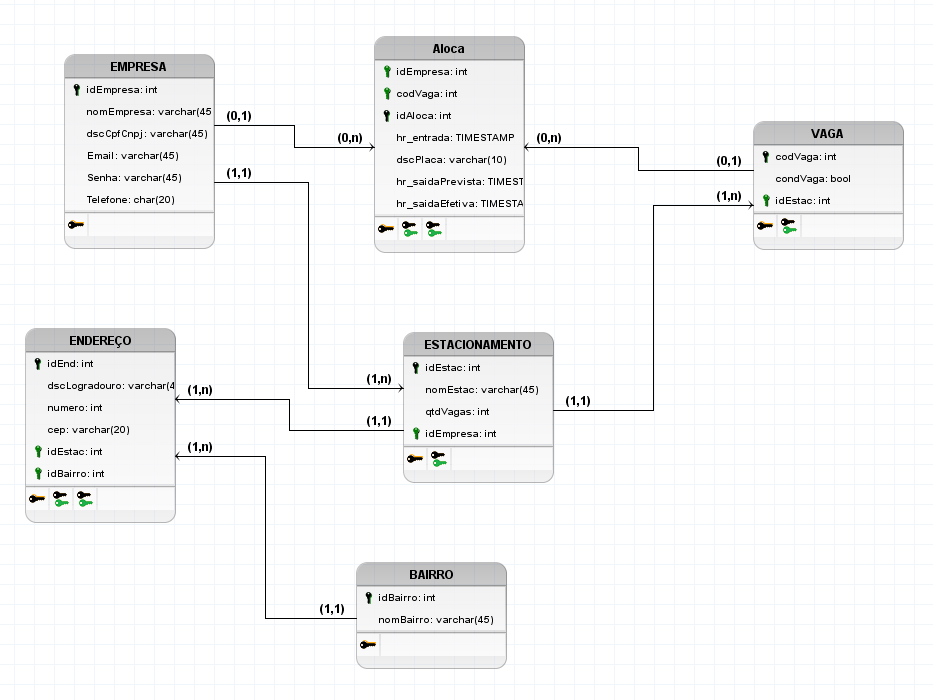
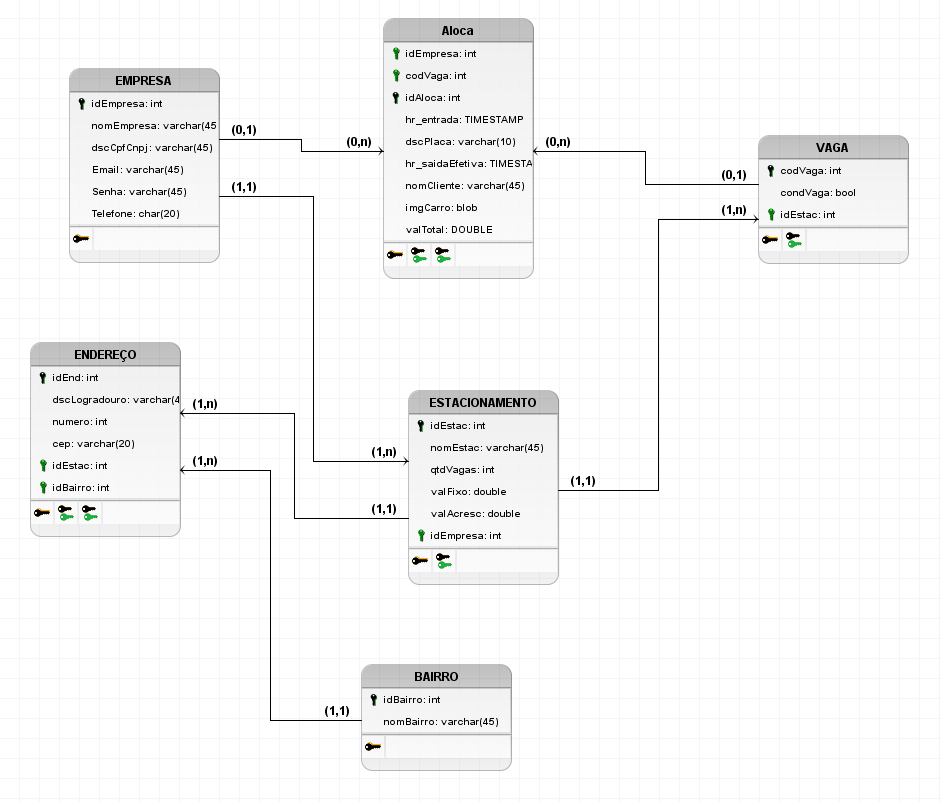
Modelo Logico e Fisico
Modelos Logico e Fisico BD

diff --git a/README.md b/README.md
@@ -22,7 +22,7 @@ O Projeto Integrador consiste em um Sistema de Controle de Estacionamento Rotati
     * Relatório que informe a quantidade de estacionamentos por bairro, com as seguintes informações: nome do bairro e a quantidade de estacionamentos.<br>
     * Relatório de Empresas e Estacionamentos, incluindo as seguintes informações: id da Empresa, id do Estacionamento.<br>
 
-### 4.TABELA DE DADOS DO SISTEMA
+### 4.TABELA DE DADOS DO SISTEMA (desatualizada)
   <p><a href="/arquivos/tabela_dados_sistema.pdf">Tabela de dados</a></p>
 
 ### 5.PMC
@@ -31,94 +31,91 @@ O Projeto Integrador consiste em um Sistema de Controle de Estacionamento Rotati
 ### 6.MODELO CONCEITUAL
   <p><img src="/arquivos/imagens/modelos/modelo_conceitual.png" alt="Modelo conceitual"></p>
 
-### 7.MODELO LÓGICO (desatualizado)
+### 7.MODELO LÓGICO
   <p><img src="/arquivos/imagens/modelos/modelo_logico.png" alt="Modelo lógico"></p>
 
-### 8.MODELO FÍSICO (desatualizado)
+### 8.MODELO FÍSICO
   <p>
-  
-      DROP TABLE IF EXISTS Aloca;
-      CREATE TABLE Aloca (
-          idAloca int PRIMARY KEY,
-          dscPlaca varchar(12),
-          hr_entrada TIMESTAMP,
-          hr_saidaPrevista TIMESTAMP,
-          hr_saidaEfetiva TIMESTAMP,
-          idEmpresa int,
-          codVaga int
-      );
+    CREATE TABLE ESTACIONAMENTO (
+        idEstac int PRIMARY KEY,
+        nomEstac varchar(45),
+        qtdVagas int,
+        valFixo double,
+        valAcresc double,
+        idEmpresa int
+    );
 
-      DROP TABLE IF EXISTS VAGA;
-      CREATE TABLE VAGA (
-          codVaga int PRIMARY KEY,
-          condVaga bool,
-          idEstac int
-      );
+    CREATE TABLE ENDEREÇO (
+        idEnd int PRIMARY KEY,
+        dscLogradouro varchar(45),
+        numero int,
+        cep varchar(20),
+        idEstac int,
+        idBairro int
+    );
 
-      DROP TABLE IF EXISTS ENDERECO;
-      CREATE TABLE ENDERECO (
-          idEnd int PRIMARY KEY,
-          dscLogradouro varchar(45),
-          numero int,
-          cep varchar(20),
-          idEstac int,
-          idBairro int
-      );
-      DROP TABLE IF EXISTS BAIRRO;
-      CREATE TABLE BAIRRO (
-          idBairro int PRIMARY KEY,
-          nomBairro varchar(45)
-      );
+    CREATE TABLE EMPRESA (
+        idEmpresa int PRIMARY KEY,
+        nomEmpresa varchar(45),
+        dscCpfCnpj varchar(45),
+        Email varchar(45),
+        Senha varchar(45),
+        Telefone char(20)
+    );
 
-      DROP TABLE IF EXISTS ESTACIONAMENTO;
-      CREATE TABLE ESTACIONAMENTO (
-          idEstac int PRIMARY KEY,
-          nomEstac varchar(45),
-          qtdVagas int,
-          idEmpresa int
-      );
+    CREATE TABLE VAGA (
+        codVaga int PRIMARY KEY,
+        condVaga bool,
+        idEstac int
+    );
 
+    CREATE TABLE BAIRRO (
+        idBairro int PRIMARY KEY,
+        nomBairro varchar(45)
+    );
 
-      DROP TABLE IF EXISTS EMPRESA;
-      CREATE TABLE EMPRESA (
-          idEmpresa int PRIMARY KEY,
-          nomEmpresa varchar(45),
-          dscCpfCnpj varchar(45),
-          Email varchar(45),
-          Senha varchar(45)
-      );
-
-
-      ALTER TABLE ESTACIONAMENTO ADD CONSTRAINT FK_ESTACIONAMENTO_2
-          FOREIGN KEY (idEmpresa)
-          REFERENCES EMPRESA (idEmpresa)
-          ON DELETE RESTRICT;
-
-      ALTER TABLE ENDERECO ADD CONSTRAINT FK_ENDERECO_2
-          FOREIGN KEY (idEstac)
-          REFERENCES ESTACIONAMENTO (idEstac)
-          ON DELETE RESTRICT;
-
-      ALTER TABLE ENDERECO ADD CONSTRAINT FK_ENDERECO_3
-          FOREIGN KEY (idBairro)
-          REFERENCES BAIRRO (idBairro)
-          ON DELETE RESTRICT;
-
-      ALTER TABLE VAGA ADD CONSTRAINT FK_VAGA_2
-          FOREIGN KEY (idEstac)
-          REFERENCES ESTACIONAMENTO (idEstac)
-          ON DELETE RESTRICT;
-
-      ALTER TABLE Aloca ADD CONSTRAINT FK_Aloca_2
-          FOREIGN KEY (idEmpresa)
-          REFERENCES EMPRESA (idEmpresa)
-          ON DELETE SET NULL;
-
-      ALTER TABLE Aloca ADD CONSTRAINT FK_Aloca_3
-          FOREIGN KEY (codVaga)
-          REFERENCES VAGA (codVaga)
-          ON DELETE SET NULL;
-  </p>
+    CREATE TABLE Aloca (
+        idEmpresa int,
+        codVaga int,
+        idAloca int PRIMARY KEY,
+        hr_entrada TIMESTAMP,
+        dscPlaca varchar(10),
+        hr_saidaEfetiva TIMESTAMP,
+        nomCliente varchar(45),
+        imgCarro blob,
+        valTotal DOUBLE
+    );
+    
+    ALTER TABLE ESTACIONAMENTO ADD CONSTRAINT FK_ESTACIONAMENTO_2
+        FOREIGN KEY (idEmpresa)
+        REFERENCES EMPRESA (idEmpresa)
+        ON DELETE RESTRICT;
+    
+    ALTER TABLE ENDEREÇO ADD CONSTRAINT FK_ENDEREÇO_2
+        FOREIGN KEY (idEstac)
+        REFERENCES ESTACIONAMENTO (idEstac)
+        ON DELETE RESTRICT;
+    
+    ALTER TABLE ENDEREÇO ADD CONSTRAINT FK_ENDEREÇO_3
+        FOREIGN KEY (idBairro)
+        REFERENCES BAIRRO (idBairro)
+        ON DELETE RESTRICT;
+    
+    ALTER TABLE VAGA ADD CONSTRAINT FK_VAGA_2
+        FOREIGN KEY (idEstac)
+        REFERENCES ESTACIONAMENTO (idEstac)
+        ON DELETE RESTRICT;
+    
+    ALTER TABLE Aloca ADD CONSTRAINT FK_Aloca_2
+        FOREIGN KEY (idEmpresa)
+        REFERENCES EMPRESA (idEmpresa)
+        ON DELETE SET NULL;
+    
+    ALTER TABLE Aloca ADD CONSTRAINT FK_Aloca_3
+        FOREIGN KEY (codVaga)
+        REFERENCES VAGA (codVaga)
+        ON DELETE SET NULL;
+      </p>
 
 ### 9.INSERT APLICADO NAS TABELAS DO BANCO DE DADOS (desatualizado)
   <p>
